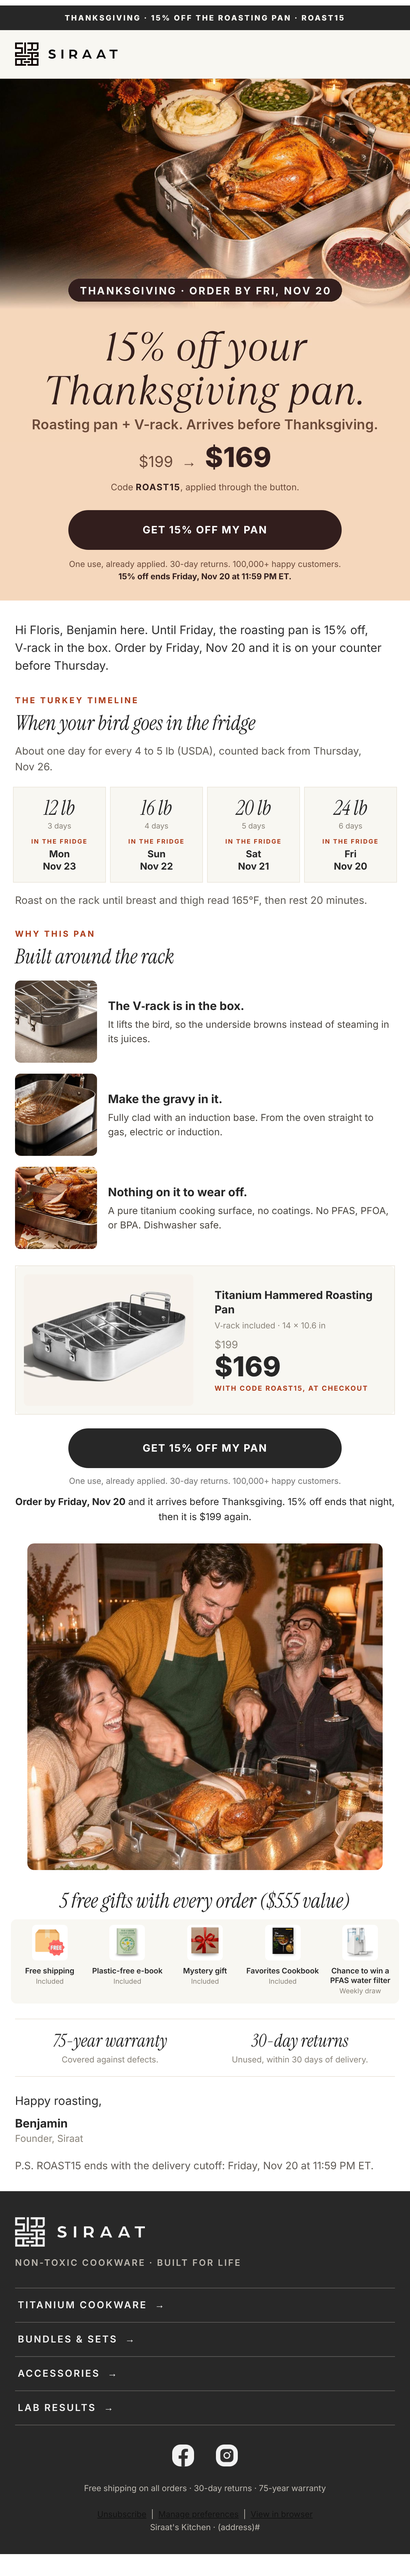
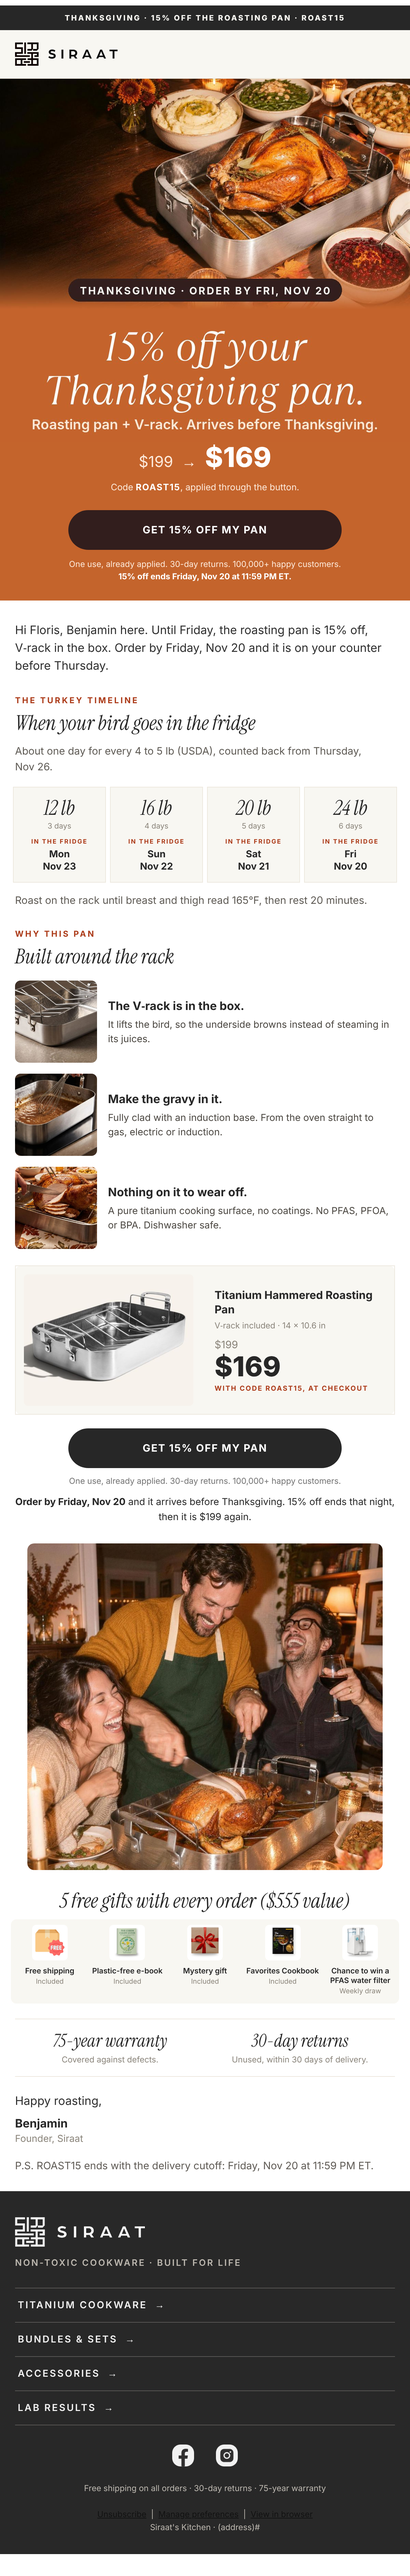
Thanksgiving Roast: donkerder oranje offerblok
Claude-Session: https://claude.ai/code/session_01HjCaDE95ohEXY6DPZTSH67

Changed region(s): [[0.0, 0.0937, 1.0, 0.2499]]

diff --git a/klaviyo/templates/v3/campaigns/thanksgiving-roast-1117/tg-us.html b/klaviyo/templates/v3/campaigns/thanksgiving-roast-1117/tg-us.html
@@ -266,10 +266,10 @@ a {
   </tr></table>
 </td></tr>
 
-<tr><td align="center" bgcolor="#FFFFFF" style="background-color:#FFFFFF;padding:0;"><a href="https://siraatskitchen.com/discount/ROAST15?redirect=%2Fproducts%2Ftitanium-hammered-roasting-pan%3Futm_source%3Dklaviyo%26utm_medium%3Demail%26utm_campaign%3Dthanksgiving-roast-1117-us%26utm_content%3Dhero" style="display:block;border:0;text-decoration:none;"><img src="https://cdn.klaviyomail.com/company/TdtTzz/images/fa194f72-c8bb-4a1a-b975-df218a83e0ae.jpeg" width="600" alt="Thanksgiving. Order by Fri, Nov 20. 15% off your Thanksgiving pan. Roasting pan plus V-rack. Arrives before Thanksgiving. A golden turkey on the V-rack in the Siraat Titanium Hammered Roasting Pan." style="display:block;width:100%;max-width:600px;height:auto;border:0;border-radius:0px;"></a></td></tr>
-<tr><td align="center" bgcolor="#F5D7BC" class="pad" style="background-color:#F5D7BC;padding:2px 40px 18px 40px;text-align:center;"><div style="font-family:Inter,Arial,Helvetica,sans-serif;font-size:22px;line-height:44px;color:#6B4A3A;">$199 &nbsp;&rarr;&nbsp; <span class="now" style="font-family:Inter,Arial,Helvetica,sans-serif;font-size:40px;line-height:44px;font-weight:800;color:#321E1D;">$169</span></div><div style="font-family:Inter,Arial,Helvetica,sans-serif;font-size:13px;line-height:19px;color:#6B4A3A;padding-top:6px;">Code <b style="color:#321E1D;letter-spacing:1px;">ROAST15</b>, applied through the button.</div></td></tr>
-<tr><td align="center" bgcolor="#F5D7BC" class="pad" style="background-color:#F5D7BC;padding:6px 40px 0 40px;"><table border="0" cellpadding="0" cellspacing="0" role="presentation" width="400" style="width:100%;max-width:400px;margin:0 auto;"><tr><td align="center" bgcolor="#FFFFFF" style="background-color:#321E1D;border-radius:30px;"><a href="https://siraatskitchen.com/discount/ROAST15?redirect=%2Fproducts%2Ftitanium-hammered-roasting-pan%3Futm_source%3Dklaviyo%26utm_medium%3Demail%26utm_campaign%3Dthanksgiving-roast-1117-us%26utm_content%3Dcta1" style="display:block;padding:20px 18px;font-family:Inter,Arial,Helvetica,sans-serif;font-size:15px;line-height:18px;font-weight:700;letter-spacing:1.2px;color:#FFFFFF;text-decoration:none;text-transform:uppercase;">Get 15% off my pan</a></td></tr></table></td></tr>
-<tr><td align="center" bgcolor="#F5D7BC" class="pad" style="background-color:#F5D7BC;padding:12px 40px 26px 40px;text-align:center;"><div style="font-family:Inter,Arial,Helvetica,sans-serif;font-size:12px;line-height:18px;color:#6B4A3A;">One use, already applied. 30-day returns. 100,000+ happy customers.<br><b style="color:#321E1D;">15% off ends Friday, Nov 20 at 11:59 PM ET.</b></div></td></tr>
+<tr><td align="center" bgcolor="#FFFFFF" style="background-color:#FFFFFF;padding:0;"><a href="https://siraatskitchen.com/discount/ROAST15?redirect=%2Fproducts%2Ftitanium-hammered-roasting-pan%3Futm_source%3Dklaviyo%26utm_medium%3Demail%26utm_campaign%3Dthanksgiving-roast-1117-us%26utm_content%3Dhero" style="display:block;border:0;text-decoration:none;"><img src="https://cdn.klaviyomail.com/company/TdtTzz/images/0b7fb5e1-2920-4362-bd09-972bc28d1e5e.jpeg" width="600" alt="Thanksgiving. Order by Fri, Nov 20. 15% off your Thanksgiving pan. Roasting pan plus V-rack. Arrives before Thanksgiving. A golden turkey on the V-rack in the Siraat Titanium Hammered Roasting Pan." style="display:block;width:100%;max-width:600px;height:auto;border:0;border-radius:0px;"></a></td></tr>
+<tr><td align="center" bgcolor="#C4642C" class="pad" style="background-color:#C4642C;padding:2px 40px 18px 40px;text-align:center;"><div style="font-family:Inter,Arial,Helvetica,sans-serif;font-size:22px;line-height:44px;color:#FDEADB;">$199 &nbsp;&rarr;&nbsp; <span class="now" style="font-family:Inter,Arial,Helvetica,sans-serif;font-size:40px;line-height:44px;font-weight:800;color:#FFFFFF;">$169</span></div><div style="font-family:Inter,Arial,Helvetica,sans-serif;font-size:13px;line-height:19px;color:#FDEADB;padding-top:6px;">Code <b style="color:#FFFFFF;letter-spacing:1px;">ROAST15</b>, applied through the button.</div></td></tr>
+<tr><td align="center" bgcolor="#C4642C" class="pad" style="background-color:#C4642C;padding:6px 40px 0 40px;"><table border="0" cellpadding="0" cellspacing="0" role="presentation" width="400" style="width:100%;max-width:400px;margin:0 auto;"><tr><td align="center" bgcolor="#FFFFFF" style="background-color:#321E1D;border-radius:30px;"><a href="https://siraatskitchen.com/discount/ROAST15?redirect=%2Fproducts%2Ftitanium-hammered-roasting-pan%3Futm_source%3Dklaviyo%26utm_medium%3Demail%26utm_campaign%3Dthanksgiving-roast-1117-us%26utm_content%3Dcta1" style="display:block;padding:20px 18px;font-family:Inter,Arial,Helvetica,sans-serif;font-size:15px;line-height:18px;font-weight:700;letter-spacing:1.2px;color:#FFFFFF;text-decoration:none;text-transform:uppercase;">Get 15% off my pan</a></td></tr></table></td></tr>
+<tr><td align="center" bgcolor="#C4642C" class="pad" style="background-color:#C4642C;padding:12px 40px 26px 40px;text-align:center;"><div style="font-family:Inter,Arial,Helvetica,sans-serif;font-size:12px;line-height:18px;color:#FDEADB;">One use, already applied. 30-day returns. 100,000+ happy customers.<br><b style="color:#FFFFFF;">15% off ends Friday, Nov 20 at 11:59 PM ET.</b></div></td></tr>
 <tr><td align="left" bgcolor="#FFFFFF" class="pad" style="background-color:#FFFFFF;padding:30px 40px 0 40px;text-align:left;"><div style="font-family:Inter,Arial,Helvetica,sans-serif;font-size:17px;line-height:26px;color:#2E2E2E;font-weight:400;">Hi {{ first_name|default:'there' }}, Benjamin here. Until Friday, the roasting pan is 15% off, V&#8209;rack in the box. Order by Friday, Nov 20 and it is on your counter before Thursday.</div></td></tr>
 <tr><td align="left" bgcolor="#FFFFFF" class="pad" style="background-color:#FFFFFF;padding:30px 40px 4px 40px;"><div style="font-family:Inter,Arial,Helvetica,sans-serif;font-size:12px;line-height:16px;letter-spacing:2.4px;font-weight:700;color:#AC3B19;">THE TURKEY TIMELINE</div><div class="h2" style="font-family:'Instrument Serif','Times New Roman',Times,serif;font-style:italic;font-weight:400;font-size:34px;line-height:38px;color:#272727;padding-top:8px;">When your bird goes in the fridge</div></td></tr>
 <tr><td align="left" bgcolor="#FFFFFF" class="pad" style="background-color:#FFFFFF;padding:8px 40px 0 40px;text-align:left;"><div style="font-family:Inter,Arial,Helvetica,sans-serif;font-size:15px;line-height:23px;color:#5E5A54;font-weight:400;">About one day for every 4 to 5 lb (USDA), counted back from Thursday, Nov&nbsp;26.</div></td></tr>

diff --git a/klaviyo/templates/v3/campaigns/thanksgiving-roast-1117/tg-us-preview.html b/klaviyo/templates/v3/campaigns/thanksgiving-roast-1117/tg-us-preview.html
@@ -266,10 +266,10 @@ a {
   </tr></table>
 </td></tr>
 
-<tr><td align="center" bgcolor="#FFFFFF" style="background-color:#FFFFFF;padding:0;"><a href="https://siraatskitchen.com/discount/ROAST15?redirect=%2Fproducts%2Ftitanium-hammered-roasting-pan%3Futm_source%3Dklaviyo%26utm_medium%3Demail%26utm_campaign%3Dthanksgiving-roast-1117-us%26utm_content%3Dhero" style="display:block;border:0;text-decoration:none;"><img src="https://cdn.klaviyomail.com/company/TdtTzz/images/fa194f72-c8bb-4a1a-b975-df218a83e0ae.jpeg" width="600" alt="Thanksgiving. Order by Fri, Nov 20. 15% off your Thanksgiving pan. Roasting pan plus V-rack. Arrives before Thanksgiving. A golden turkey on the V-rack in the Siraat Titanium Hammered Roasting Pan." style="display:block;width:100%;max-width:600px;height:auto;border:0;border-radius:0px;"></a></td></tr>
-<tr><td align="center" bgcolor="#F5D7BC" class="pad" style="background-color:#F5D7BC;padding:2px 40px 18px 40px;text-align:center;"><div style="font-family:Inter,Arial,Helvetica,sans-serif;font-size:22px;line-height:44px;color:#6B4A3A;">$199 &nbsp;&rarr;&nbsp; <span class="now" style="font-family:Inter,Arial,Helvetica,sans-serif;font-size:40px;line-height:44px;font-weight:800;color:#321E1D;">$169</span></div><div style="font-family:Inter,Arial,Helvetica,sans-serif;font-size:13px;line-height:19px;color:#6B4A3A;padding-top:6px;">Code <b style="color:#321E1D;letter-spacing:1px;">ROAST15</b>, applied through the button.</div></td></tr>
-<tr><td align="center" bgcolor="#F5D7BC" class="pad" style="background-color:#F5D7BC;padding:6px 40px 0 40px;"><table border="0" cellpadding="0" cellspacing="0" role="presentation" width="400" style="width:100%;max-width:400px;margin:0 auto;"><tr><td align="center" bgcolor="#FFFFFF" style="background-color:#321E1D;border-radius:30px;"><a href="https://siraatskitchen.com/discount/ROAST15?redirect=%2Fproducts%2Ftitanium-hammered-roasting-pan%3Futm_source%3Dklaviyo%26utm_medium%3Demail%26utm_campaign%3Dthanksgiving-roast-1117-us%26utm_content%3Dcta1" style="display:block;padding:20px 18px;font-family:Inter,Arial,Helvetica,sans-serif;font-size:15px;line-height:18px;font-weight:700;letter-spacing:1.2px;color:#FFFFFF;text-decoration:none;text-transform:uppercase;">Get 15% off my pan</a></td></tr></table></td></tr>
-<tr><td align="center" bgcolor="#F5D7BC" class="pad" style="background-color:#F5D7BC;padding:12px 40px 26px 40px;text-align:center;"><div style="font-family:Inter,Arial,Helvetica,sans-serif;font-size:12px;line-height:18px;color:#6B4A3A;">One use, already applied. 30-day returns. 100,000+ happy customers.<br><b style="color:#321E1D;">15% off ends Friday, Nov 20 at 11:59 PM ET.</b></div></td></tr>
+<tr><td align="center" bgcolor="#FFFFFF" style="background-color:#FFFFFF;padding:0;"><a href="https://siraatskitchen.com/discount/ROAST15?redirect=%2Fproducts%2Ftitanium-hammered-roasting-pan%3Futm_source%3Dklaviyo%26utm_medium%3Demail%26utm_campaign%3Dthanksgiving-roast-1117-us%26utm_content%3Dhero" style="display:block;border:0;text-decoration:none;"><img src="https://cdn.klaviyomail.com/company/TdtTzz/images/0b7fb5e1-2920-4362-bd09-972bc28d1e5e.jpeg" width="600" alt="Thanksgiving. Order by Fri, Nov 20. 15% off your Thanksgiving pan. Roasting pan plus V-rack. Arrives before Thanksgiving. A golden turkey on the V-rack in the Siraat Titanium Hammered Roasting Pan." style="display:block;width:100%;max-width:600px;height:auto;border:0;border-radius:0px;"></a></td></tr>
+<tr><td align="center" bgcolor="#C4642C" class="pad" style="background-color:#C4642C;padding:2px 40px 18px 40px;text-align:center;"><div style="font-family:Inter,Arial,Helvetica,sans-serif;font-size:22px;line-height:44px;color:#FDEADB;">$199 &nbsp;&rarr;&nbsp; <span class="now" style="font-family:Inter,Arial,Helvetica,sans-serif;font-size:40px;line-height:44px;font-weight:800;color:#FFFFFF;">$169</span></div><div style="font-family:Inter,Arial,Helvetica,sans-serif;font-size:13px;line-height:19px;color:#FDEADB;padding-top:6px;">Code <b style="color:#FFFFFF;letter-spacing:1px;">ROAST15</b>, applied through the button.</div></td></tr>
+<tr><td align="center" bgcolor="#C4642C" class="pad" style="background-color:#C4642C;padding:6px 40px 0 40px;"><table border="0" cellpadding="0" cellspacing="0" role="presentation" width="400" style="width:100%;max-width:400px;margin:0 auto;"><tr><td align="center" bgcolor="#FFFFFF" style="background-color:#321E1D;border-radius:30px;"><a href="https://siraatskitchen.com/discount/ROAST15?redirect=%2Fproducts%2Ftitanium-hammered-roasting-pan%3Futm_source%3Dklaviyo%26utm_medium%3Demail%26utm_campaign%3Dthanksgiving-roast-1117-us%26utm_content%3Dcta1" style="display:block;padding:20px 18px;font-family:Inter,Arial,Helvetica,sans-serif;font-size:15px;line-height:18px;font-weight:700;letter-spacing:1.2px;color:#FFFFFF;text-decoration:none;text-transform:uppercase;">Get 15% off my pan</a></td></tr></table></td></tr>
+<tr><td align="center" bgcolor="#C4642C" class="pad" style="background-color:#C4642C;padding:12px 40px 26px 40px;text-align:center;"><div style="font-family:Inter,Arial,Helvetica,sans-serif;font-size:12px;line-height:18px;color:#FDEADB;">One use, already applied. 30-day returns. 100,000+ happy customers.<br><b style="color:#FFFFFF;">15% off ends Friday, Nov 20 at 11:59 PM ET.</b></div></td></tr>
 <tr><td align="left" bgcolor="#FFFFFF" class="pad" style="background-color:#FFFFFF;padding:30px 40px 0 40px;text-align:left;"><div style="font-family:Inter,Arial,Helvetica,sans-serif;font-size:17px;line-height:26px;color:#2E2E2E;font-weight:400;">Hi Floris, Benjamin here. Until Friday, the roasting pan is 15% off, V&#8209;rack in the box. Order by Friday, Nov 20 and it is on your counter before Thursday.</div></td></tr>
 <tr><td align="left" bgcolor="#FFFFFF" class="pad" style="background-color:#FFFFFF;padding:30px 40px 4px 40px;"><div style="font-family:Inter,Arial,Helvetica,sans-serif;font-size:12px;line-height:16px;letter-spacing:2.4px;font-weight:700;color:#AC3B19;">THE TURKEY TIMELINE</div><div class="h2" style="font-family:'Instrument Serif','Times New Roman',Times,serif;font-style:italic;font-weight:400;font-size:34px;line-height:38px;color:#272727;padding-top:8px;">When your bird goes in the fridge</div></td></tr>
 <tr><td align="left" bgcolor="#FFFFFF" class="pad" style="background-color:#FFFFFF;padding:8px 40px 0 40px;text-align:left;"><div style="font-family:Inter,Arial,Helvetica,sans-serif;font-size:15px;line-height:23px;color:#5E5A54;font-weight:400;">About one day for every 4 to 5 lb (USDA), counted back from Thursday, Nov&nbsp;26.</div></td></tr>

diff --git a/LOG.md b/LOG.md
@@ -540,3 +540,4 @@ Nieuwste bovenaan. Elke regel: datum, wat er gedaan is, wat het opleverde of wat
 - 2026-11-16: Thanksgiving Roast US v3 (Floris): tijdelijk 15% op de Roasting Pan. Shopify-code ROAST15 aangemaakt (DiscountCodeNode 2370676097364, discountCodeBasicCreate zoals LUCKY15): 15% alleen Titanium Hammered Roasting Pan, alle klanten, 1x per klant, combineerbaar met product- en verzendkortingen, geldig 16 nov 16:37 UTC tot 2026-11-21T04:59:00Z (vr 20 nov 23:59 ET), status ACTIVE. Prijs $199 naar $169.15 (15% van $199,00 is precies $29,85, Shopify rekent $169.15). Alle 15 links via /discount/ROAST15?redirect=<URL-encoded PDP + UTM>, unieke utm_content per link, getest: 302 naar PDP met discount_code-cookie ROAST15. Mail herbouwd rond het aanbod: nieuwe hero tg3-hero.jpg (zelfde foto, kop '15% off the roasting pan.', pill 'Order by Fri, Nov 20', subregel 'V-rack included. It arrives before Thanksgiving.'), prijsblok $199 → $169.15 met code als tekst, urgentie '15% off ends Friday, Nov 20 at 11:59 PM ET.', knoppen 'Get 15% off my pan', friction 'One use, already applied...', productkaart met $169.15 (geen doorhaling), rest (tegels, rek-blok, lifestyle-uitsnede, 5 gifts, 75 jaar/30 dagen, Benjamin, header/footer) behouden. build.py bijgewerkt (ook life-crop). Onderwerp '15% off the roasting pan, before Thanksgiving', preview 'Code ROAST15 takes it to $169.15, V-rack included. Order by Friday, Nov 20 and it arrives in time.' Template UNLwYu gepatcht en via campaign-message bevestigd, campagne 01M7JGEYGP1FGC4P968R7QJMN8 blijft draft, geen testmail. Render desktop 3.762 px, mobiel 3.686 px, geen overloop, 0 kapotte beelden, 0 gedachtestreepjes. Figma 301-89 bijgewerkt (slices en infokaart).
 - 2026-11-16: ROAST15 omgezet van 15% naar vast $30 korting (1x per order, alleen roasting pan, eindigt nog steeds vr 20 nov 23:59 ET) zodat de prijs precies $169 is (15,08%, '15% off' blijft kloppen). Mail, preview-tekst en template UNLwYu op $169; campagne blijft draft.
 - 2026-11-16: Thanksgiving Roast: offerblok zacht oranje (#F5D7BC, donkere tekst, donkere knop) op verzoek Floris; hero opnieuw (tg4-hero, script scratchpad/tg3/mkhero4.py) met 'Thanksgiving · Order by Fri, Nov 20' en kop '15% off your Thanksgiving pan.'; topbalk 'Thanksgiving · 15% off the roasting pan · ROAST15'. Template UNLwYu bijgewerkt, campagne draft. Let op: _tools/build.py nog op de oude kleuren.
+- 2026-11-16: Thanksgiving Roast: offerblok donkerder oranje (#C4642C, witte tekst, donkere knop) op verzoek Floris; hero tg5-hero (scratchpad/tg3/mkhero5.py). Template UNLwYu bijgewerkt, draft.
